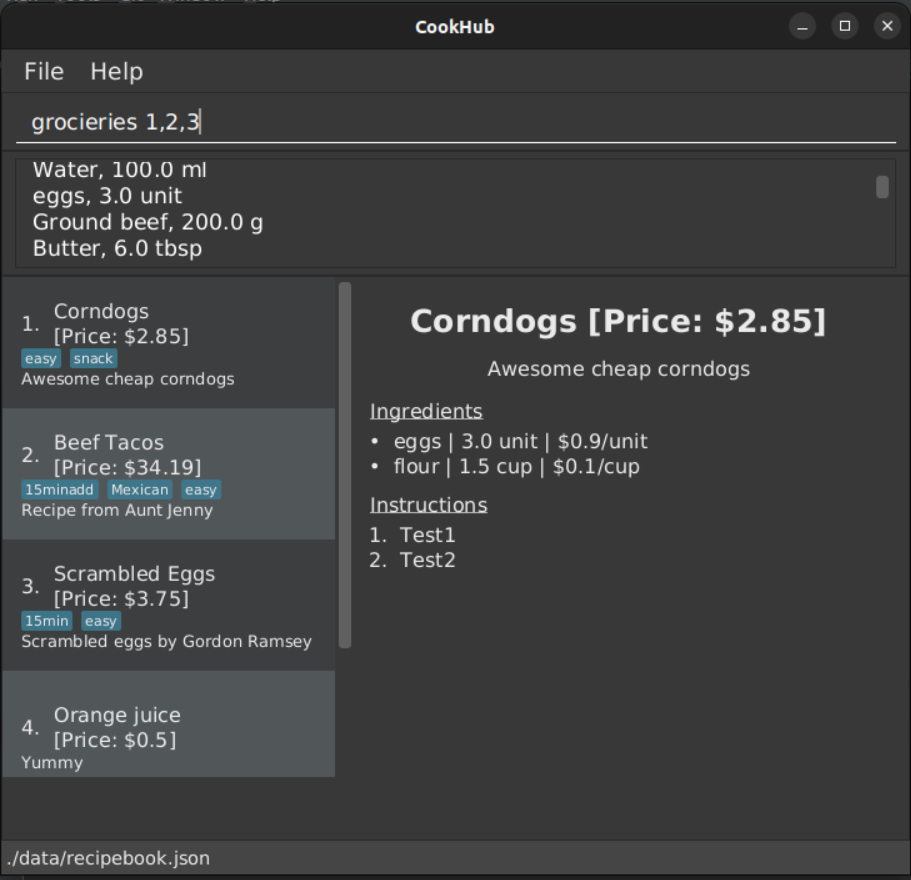
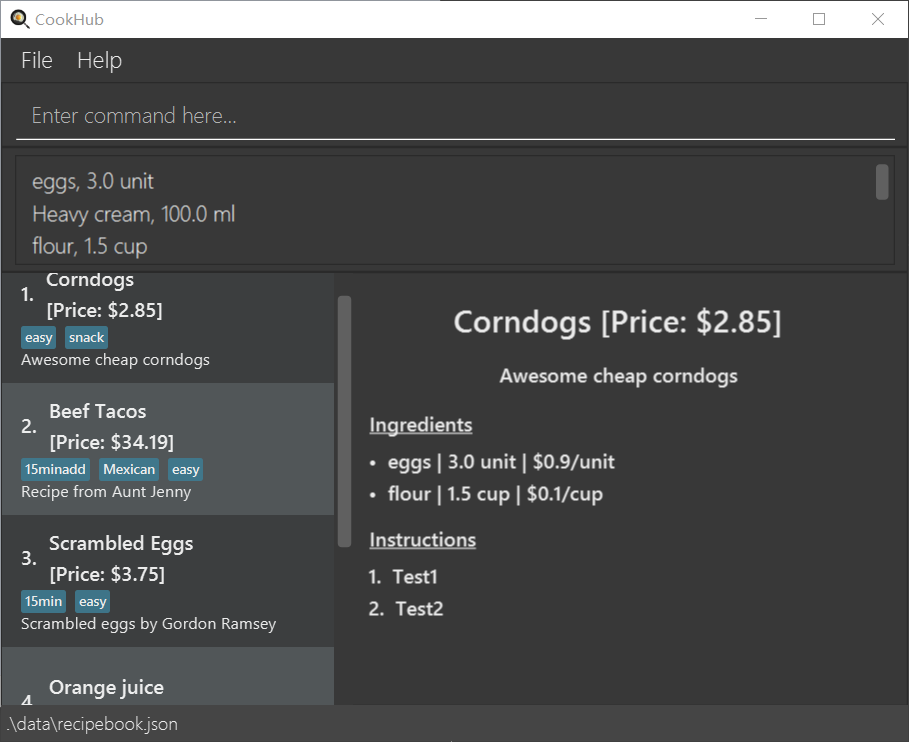
Add command example pictures for groceries command in user guide.

diff --git a/docs/UserGuide.md b/docs/UserGuide.md
@@ -356,9 +356,13 @@ Below shows how you can get a list of groceries to cook for recipes 1, 3 and 4.
     <img src="images/annotated/groceriesCommand.svg" width="100%">
 </p>
 
-Example: `groceries 1,3,4`
+Example: 
 
-Expected outcome: A list of ingredients for recipes with index 1, 3 and 4, will be displayed in the output box along with their quantities.
+Our initial recipe book:
+
+<img src="images/GroceriesStart.png" width=500 height=400>
+
+- `groceries 1,3,4` will display the groceries you need to cook recipes 1, 3 and 4 similar to the image shown below:
 
 <img src="images/GroceriesResult.png" width=500 height=400>
 
